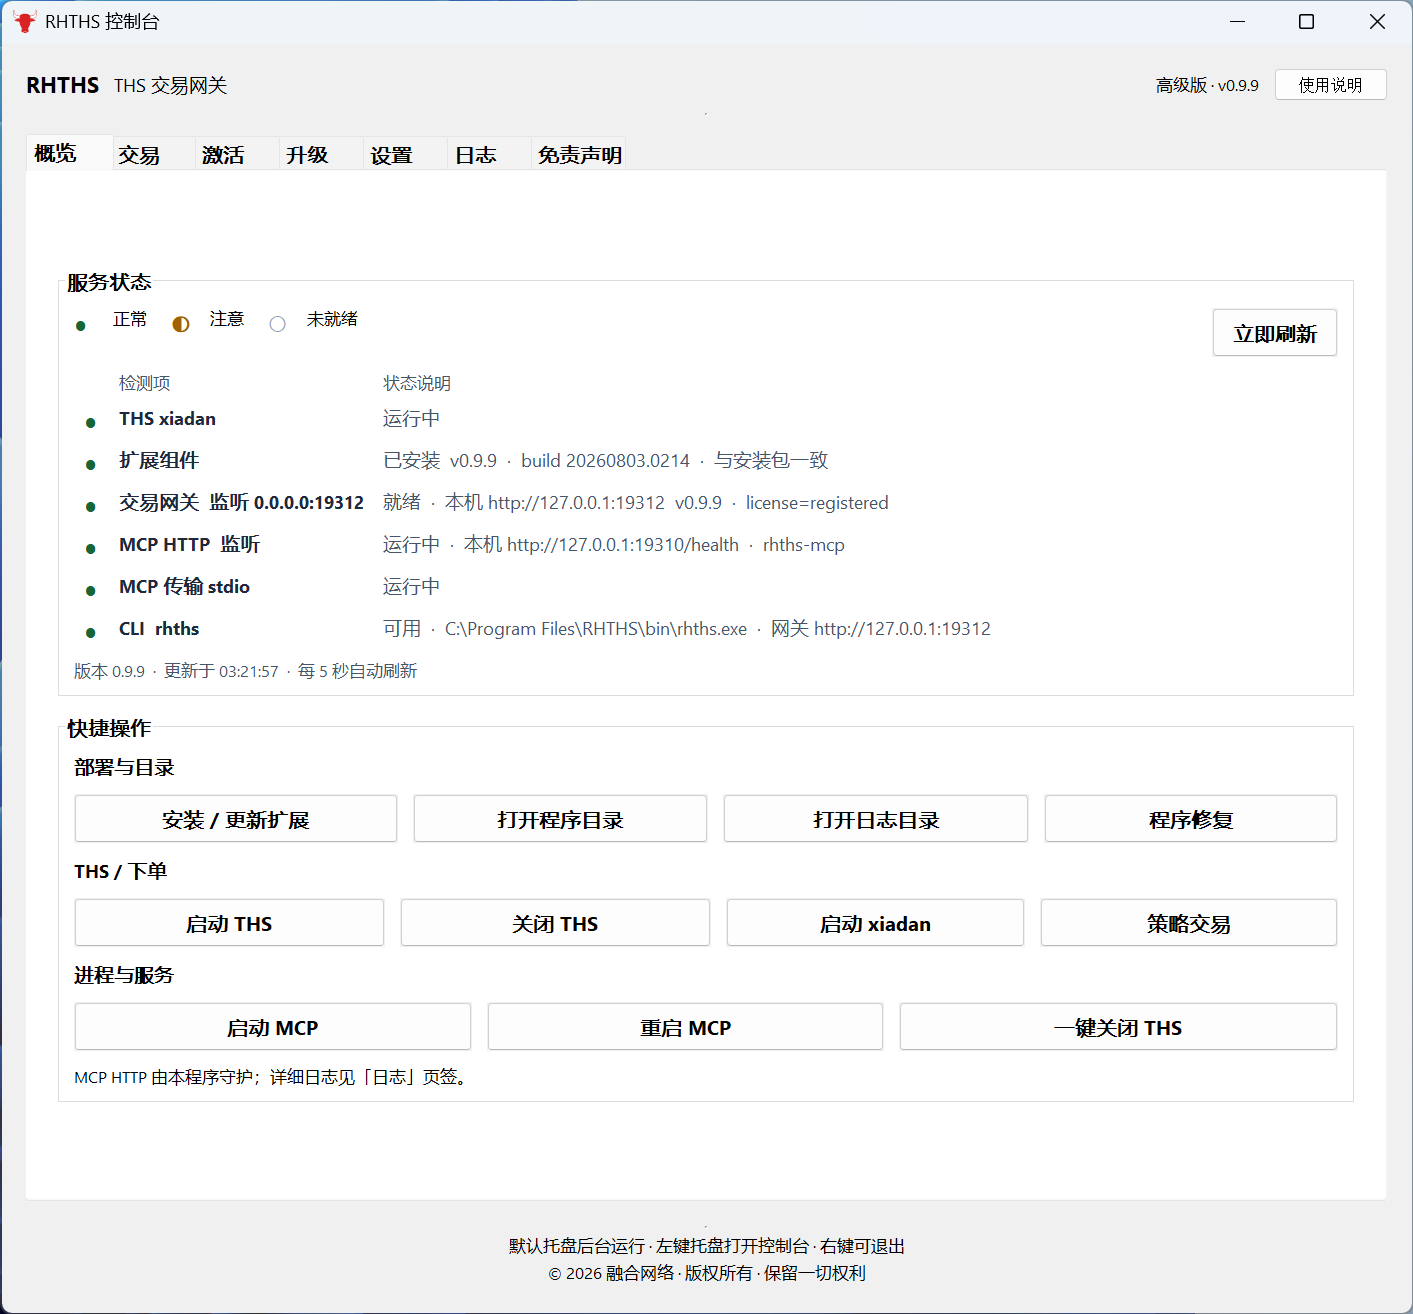
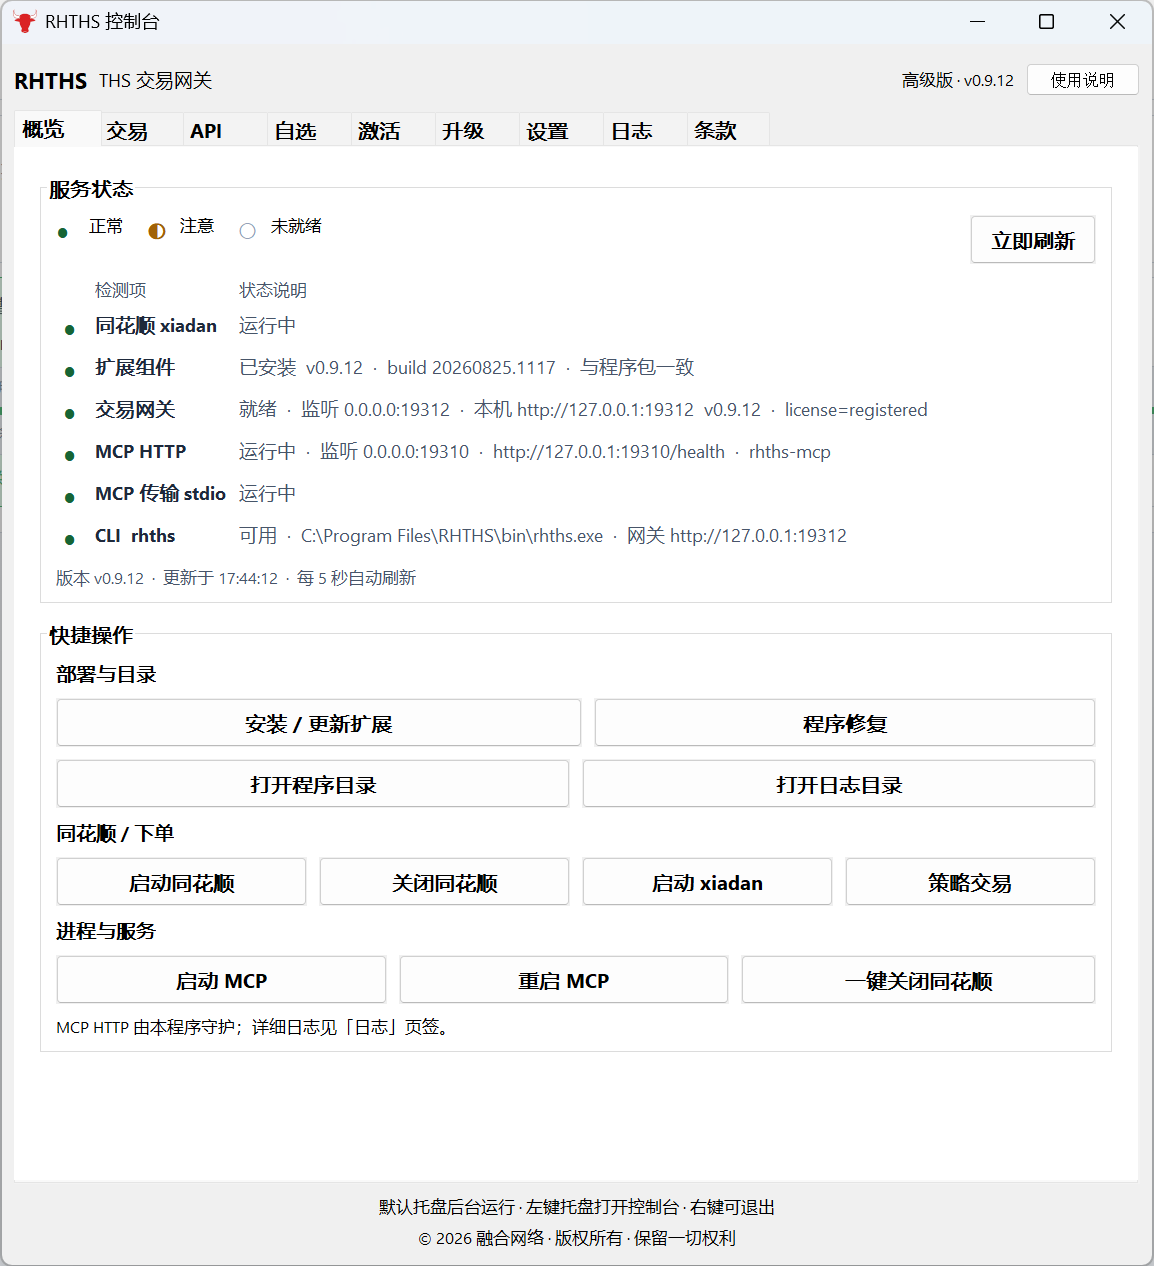
同步 usermd：云端自选/板块 MCP 文档与 GUI 截图。
新增 rh_ths_favorite_* / rh_ths_block_* 工具说明，软件功能图补充 API(11) 与自选(10) 页。

diff --git a/AI交易示例.md b/AI交易示例.md
@@ -5,7 +5,7 @@
 - **默认模拟下单**（`dry_run` / 模式 `simulate`），不会真实成交。
 - **实盘**须环境变量 `RHTHS_ALLOW_LIVE=1`，且每笔写操作带 **`confirm_live: true`**，风险自负。
 - **云端研究**（涨停池/财报/估值/基金等）：到 [fuyao.aicubes.cn](https://fuyao.aicubes.cn/admin/) **自行申请 Token**，在 `rhths-gui` → **「API」** 页保存。
-- **能力分工：** 实时行情/交易 → `rh_market_*` / `rh_trade_*`；云端特色与财务 → `rh_fuyao_*`。工作台可加载 Skill `rhths` / `rhths-fuyao`。
+- **能力分工：** 实时行情/交易 → `rh_market_*` / `rh_trade_*`；云端特色与财务 → `rh_fuyao_*`；云端自选/动态板块 → `rh_ths_favorite_*` / `rh_ths_block_*`（GUI「自选」页 Cookie）。
 - 配置见 [MCP使用说明.md](./MCP使用说明.md)、[SKILL.md](./SKILL.md)、[fuyao-routing.md](./fuyao-routing.md)。
 
 ---
@@ -18,6 +18,8 @@
 | 「hexin 和 xiadan 在跑吗？」 | `rh_system_status` |
 | 「现在是模拟还是实盘模式？」 | `rh_trade_mode_get` |
 | 「官方数据 Key 通不通？」 | `rh_fuyao_ping` |
+| 「我的同花顺自选里有哪些？」 | `rh_ths_favorite_list` |
+| 「动态板块「买点」里有哪些票？」 | `rh_ths_block_list`（`group`=`买点`） |
 
 ---
 
@@ -165,6 +167,26 @@
 > AI：`rh_market_kline`（`period`: `1440`，`length`: `20`）+ `rh_market_depth`。
 
 **订阅类（高级，日常分析可不走）：** `reg_quote` / `reg_kline` → 循环 `wait_update` → `unreg_*`。
+
+---
+
+## 五点五、同花顺云端自选 / 动态板块
+
+> 需 GUI「自选」页粘贴 Cookie 并保存（会重启 MCP）。不依赖本机 hexin。代码：`600519.SH` 或 6 位代码。
+
+| 你可以对 AI 说 | MCP 工具 | 参数要点 |
+|----------------|----------|----------|
+| 「列出自选分组」 | `rh_ths_favorite_list` | 可选 `group` 只看一组 |
+| 「把 600519 加到自选股」 | `rh_ths_favorite_add` | `group`=`自选股`；`code`=`600519.SH` |
+| 「从自选股删掉 600519」 | `rh_ths_favorite_delete` | 同上 |
+| 「有哪些动态板块？」 | `rh_ths_block_list` | 返回自定义分组/板块 |
+| 「把 000001 加到买点板块」 | `rh_ths_block_add` | `group`=`买点`；`codes` 可多只 |
+| 「从买点板块删掉 000001」 | `rh_ths_block_delete` | 同上 |
+
+**示例对话：**
+
+> 用户：看看我同花顺自选和「买点」板块里有哪些票，把 600519.SH 加进买点。  
+> AI：`rh_ths_favorite_list` → `rh_ths_block_list`（`group`: `买点`）→ `rh_ths_block_add`（`group`: `买点`，`code`: `600519.SH`）。
 
 ---
 
@@ -451,6 +473,7 @@
 | 条件单 | `rh_condition_*`、`rh_py_call` |
 | 自动交易 | `rh_autotrading_*` |
 | **云端 fuyao** | `rh_fuyao_ping`、`meta_*`、`prices_*`、`adjustment_factors`、`financials_*`、`valuations_snapshot`、`calendar_trading_days`、`auction_*`、`limit_up_*`、`limit_down_pool`、`limit_break_pool`、`anomaly_*`、`skyrocket_list`、`hot_stock_*`、`dragon_tiger`、`index_*`、`fund_*`、`rh_fuyao_get` |
+| **云端自选/板块** | `rh_ths_favorite_list` / `add` / `delete`；`rh_ths_block_list` / `add` / `delete` |
 
 机读摘要：[mcp.tools.json](./mcp.tools.json) · 云端路由：[fuyao-routing.md](./fuyao-routing.md)
 
@@ -469,6 +492,7 @@
 | 涨停池周末为空 | 传具体交易日；或属非交易日正常空 |
 | 异动历史为空 / `skipped` | 异动仅当日；用涨停池 `limit_up_reason` |
 | `FUYAO_ERROR` / Key 无效 | GUI「API」保存 Token；`rh_fuyao_ping` |
+| `THS_UGC_ERROR` / Cookie 未配置 | GUI「自选」粘贴 Cookie 并保存（会重启 MCP） |
 | 基金报类型错误 | `meta_search` 后设对 `fund_type` |
 | `account_daily` 无数据 | 日期须 **`YYYYMMDD`** |
 | autotrading 列表为空 | 看 `execution_mode`；数据在 `PythonLog\rhths\data\` |

diff --git a/软件功能图.md b/软件功能图.md
@@ -13,6 +13,7 @@
 | **概览** | 服务状态监测、扩展部署、 THS / xiadan 启停、策略交易、MCP 启停、程序修复 |
 | **交易** | 资金/持仓/委托查询，买入/卖出/撤单（模拟与实盘） |
 | **API** | 同花顺金融数据服务官方 Token（用户自申请）；补齐财务/估值/特色数据等 |
+| **自选** | 同花顺云端自选 / 动态板块；Cookie、列表多选与批量删除；MCP `rh_ths_favorite_*` / `rh_ths_block_*` |
 | **激活** | 注册码在线激活、授权校验、机器码 |
 | **升级** | 在线检测新版本、打开发布页与下载 |
 | **设置** | THS 目录、网关/MCP 端口、hexin/xiadan 路径、进程守护、开机自启 |
@@ -60,6 +61,8 @@
 
 在控制台 **「API」** 页签配置 [同花顺金融数据服务](https://fuyao.aicubes.cn/) 的 **官方标准 API Token**（用户到官网自行申请）。保存后仅写入本机 `%APPDATA%\RHTHS\settings.json`，并同步 `HITHINK_FINANCE_API_KEY`。
 
+![API：官方 Token 配置与测试](./img/11.png)
+
 | 功能 | 说明 |
 |------|------|
 | **自行申请 Token** | <https://fuyao.aicubes.cn/admin/>；RHTHS 不代申请、不托管他人密钥 |
@@ -67,6 +70,23 @@
 | **路由原则** | 行情与交易优先本机；财务、估值、涨停/龙虎榜、基金等走官方标准 API |
 
 详见 [MCP使用说明.md](./MCP使用说明.md) § 5.6 · [CLI使用说明.md](./CLI使用说明.md)。
+
+---
+
+## 2.6 自选 — 云端自选 / 动态板块
+
+在控制台 **「自选」** 页签管理同花顺云端自选与动态板块（`ugc.10jqka.com.cn`），**不依赖**本机 hexin。Cookie 手动粘贴后保存到本机 `settings.json`（`ths_cookie`），并同步环境变量供 MCP / CLI 使用。
+
+![自选：Cookie、自选管理与动态板块](./img/10.png)
+
+| 功能 | 说明 |
+|------|------|
+| **Cookie** | 显示/隐藏、保存、测试拉取；保存后会重启 MCP 使 AI 工具生效 |
+| **自选管理** | 刷新分组、列表多选（Ctrl/Shift）、全选 / 清除选择 / 删除选中、按代码添加 |
+| **动态板块管理** | 同上，针对自定义/动态板块分组 |
+| **MCP / CLI** | `rh_ths_favorite_*` / `rh_ths_block_*`；`rhths favorite` / `rhths block` |
+
+详见 [MCP使用说明.md](./MCP使用说明.md) § 5.7 · [CLI使用说明.md](./CLI使用说明.md) · [AI交易示例.md](./AI交易示例.md)。
 
 ---
 
@@ -162,4 +182,4 @@
 
 ---
 
-> 截图版本：**v0.7.0**。界面以实际安装包为准；功能迭代后图注可能略有差异。
+> 截图版本：**v0.9.12**。界面以实际安装包为准；功能迭代后图注可能略有差异。

diff --git a/MCP使用说明.md b/MCP使用说明.md
@@ -286,6 +286,19 @@ Invoke-RestMethod http://192.168.1.100:19310/health
 
 CLI：`rhths fuyao ping | search | get`。
 
+### 5.7 同花顺云端自选 / 动态板块
+
+不依赖本机 hexin。Cookie 在 `rhths-gui` → **「自选」** 页手动粘贴并保存（`%APPDATA%\RHTHS\settings.json` 的 `ths_cookie`，或环境变量 `THS_COOKIE` / `RHTHS_THS_COOKIE`）。保存后需重启 MCP 进程。
+
+| 工具 | 用途 |
+|------|------|
+| `rh_ths_favorite_list` | 列出自选分组；可选 `group` 只看一组 |
+| `rh_ths_favorite_add` / `rh_ths_favorite_delete` | 自选分组增删股票。`group` 必填；`code` 或 `codes` |
+| `rh_ths_block_list` | 列出动态板块/自定义分组 |
+| `rh_ths_block_add` / `rh_ths_block_delete` | 板块增删股票 |
+
+代码格式：`600519.SH` 或 6 位代码（按首位推断市场）。CLI：`rhths favorite list|show|add|delete`，`rhths block …`。
+
 完整机读列表：[mcp.tools.json](./mcp.tools.json)。**不连接** thsQuant `:19090`，**不提供** MySQL 工具。
 
 ---
@@ -307,6 +320,7 @@ CLI：`rhths fuyao ping | search | get`。
 | `LIVE_BLOCKED` | 未开 `RHTHS_ALLOW_LIVE` 或未 `confirm_live` |
 | `FREE_DAILY_LIMIT` | 标准版当日实盘次数已满 |
 | `FUYAO_ERROR` / 认证失败 | GUI「API」检查 Key；或访问 fuyao 管理页重新创建 |
+| `THS_UGC_ERROR` / Cookie 未配置 | GUI「自选」填写 Cookie 并保存；然后重启 MCP |
 | 工具找不到 | 检查路径 / URL、重建 `rhths-mcp.exe`；`rh_fuyao_*` 需新版 MCP |
 | 19310 被占用 | 关闭多余 `rhths-mcp.exe`；本机优先用 stdio，远程才用 HTTP |
 更多排障见 [快速开始.md](./快速开始.md)。CLI 仅本机使用见 [CLI使用说明.md](./CLI使用说明.md)。

diff --git a/CLI使用说明.md b/CLI使用说明.md
@@ -253,6 +253,24 @@ rhths fuyao get /api/a-share/calendar/trading-days
 
 ---
 
+## 六点三、同花顺云端自选 / 动态板块
+
+Cookie 在 GUI「**自选**」页粘贴保存，或设 `THS_COOKIE` / `RHTHS_THS_COOKIE`。
+
+```powershell
+rhths favorite list
+rhths favorite show 自选股
+rhths favorite add 自选股 600519.SH
+rhths favorite delete 自选股 600519.SH
+rhths block list
+rhths block add 买点 000001.SZ 300750
+rhths block delete 买点 000001
+```
+
+对应 MCP：`rh_ths_favorite_*`、`rh_ths_block_*`。说明见 [MCP使用说明.md](./MCP使用说明.md) § 5.7。
+
+---
+
 ## 六点五、条件单与策略（进程内 ths_api）
 
 ```powershell
@@ -466,6 +484,7 @@ rhths positions --pretty > pos.txt
 | 想在另一台电脑用命令行 | 不能远程跑 CLI；请用 [MCP HTTP](./MCP使用说明.md#三局域网--远程安装mcp-http) |
 | `fuyao API key 未配置` | GUI「API」填写并保存；或设 `HITHINK_FINANCE_API_KEY` |
 | `fuyao` 认证失败 | Key 无效/过期，到 <https://fuyao.aicubes.cn/admin/> 重建 |
+| 同花顺 Cookie 未配置 | GUI「自选」粘贴 Cookie 并保存；或设 `THS_COOKIE` |
 
 
 

diff --git a/SKILL.md b/SKILL.md
@@ -95,6 +95,7 @@ Templates: [mcp.server.rhths-trade.json](./mcp.server.rhths-trade.json) · Full 
 | Py dispatch | `rh_py_call` | `rhths py call --action …` |
 | Quote / K / wencai | `rh_market_*` | `rhths market …` |
 | Cloud finance / special（fuyao） | `rh_fuyao_*` | `rhths fuyao ping` / `search` / `get`；全量见 [fuyao-routing.md](./fuyao-routing.md) |
+| Cloud watchlist / boards | `rh_ths_favorite_*` / `rh_ths_block_*` | `rhths favorite` / `rhths block`；GUI **自选** tab Cookie |
 | Autotrading review | `rh_autotrading_*` | `rhths autotrading …` |
 | Indicator | `rh_indicator_calc` | `rhths indicator calc CODE MACD` |
 
